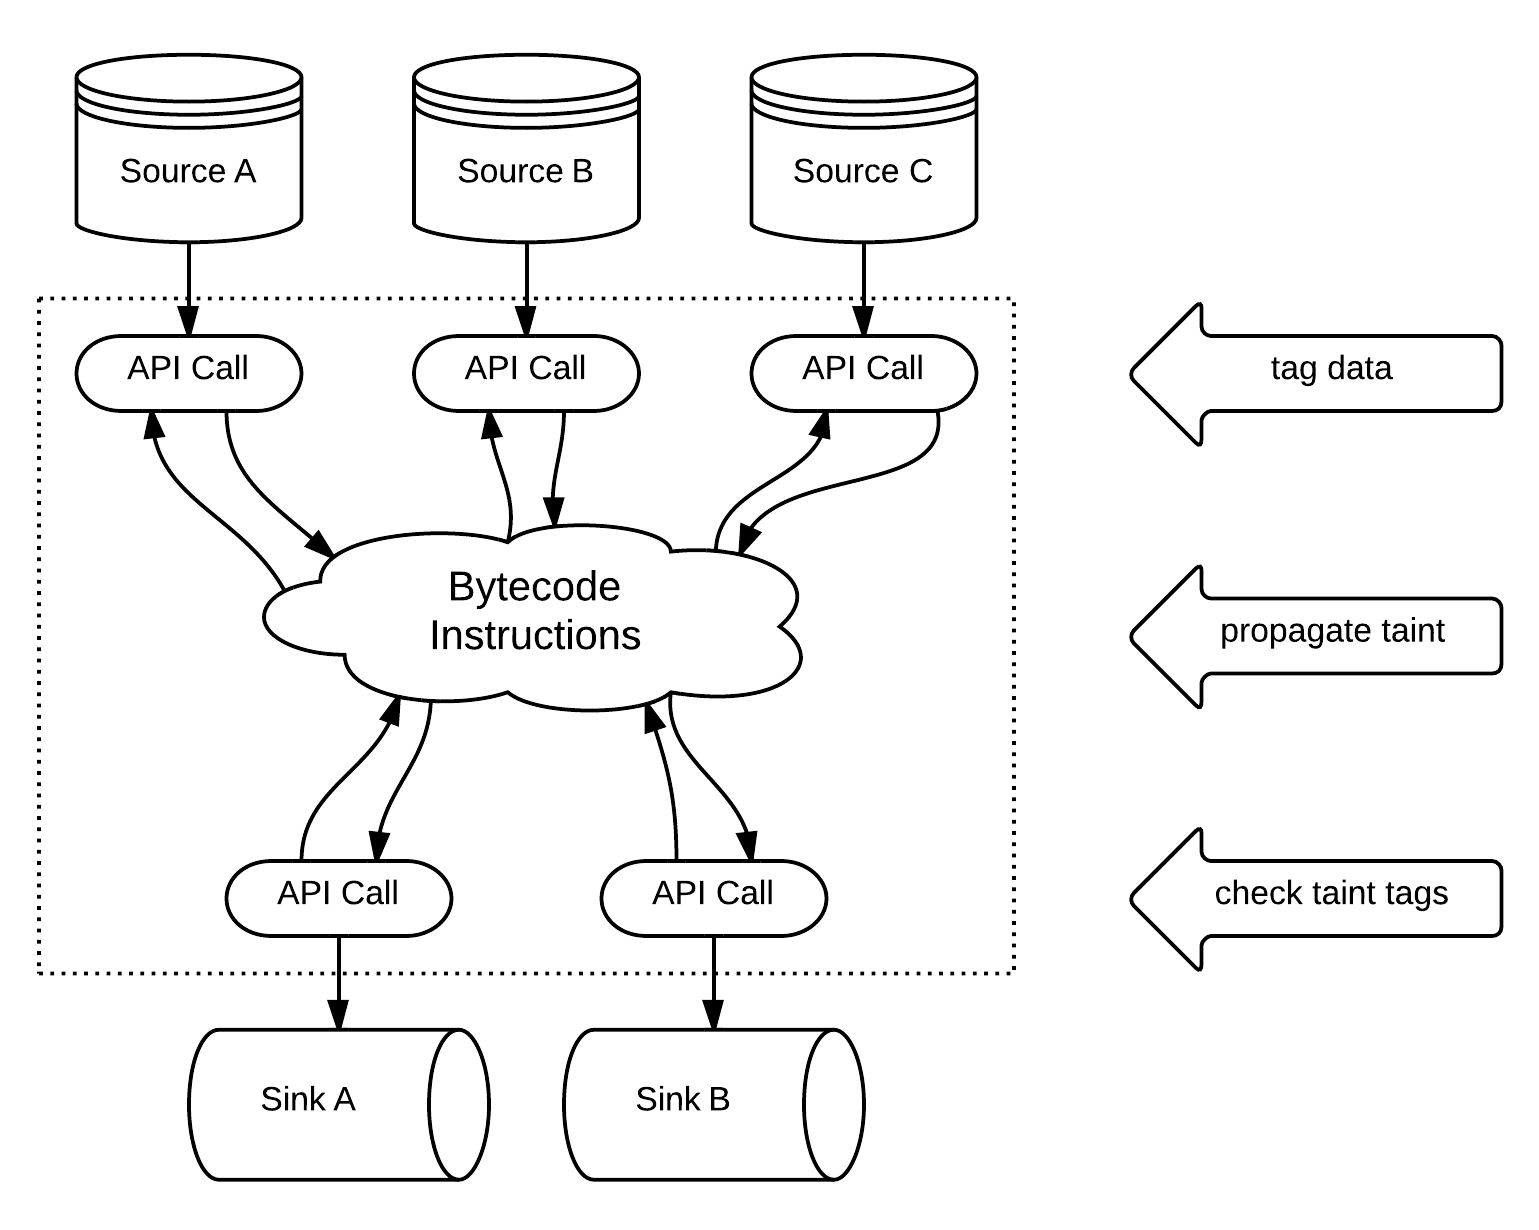
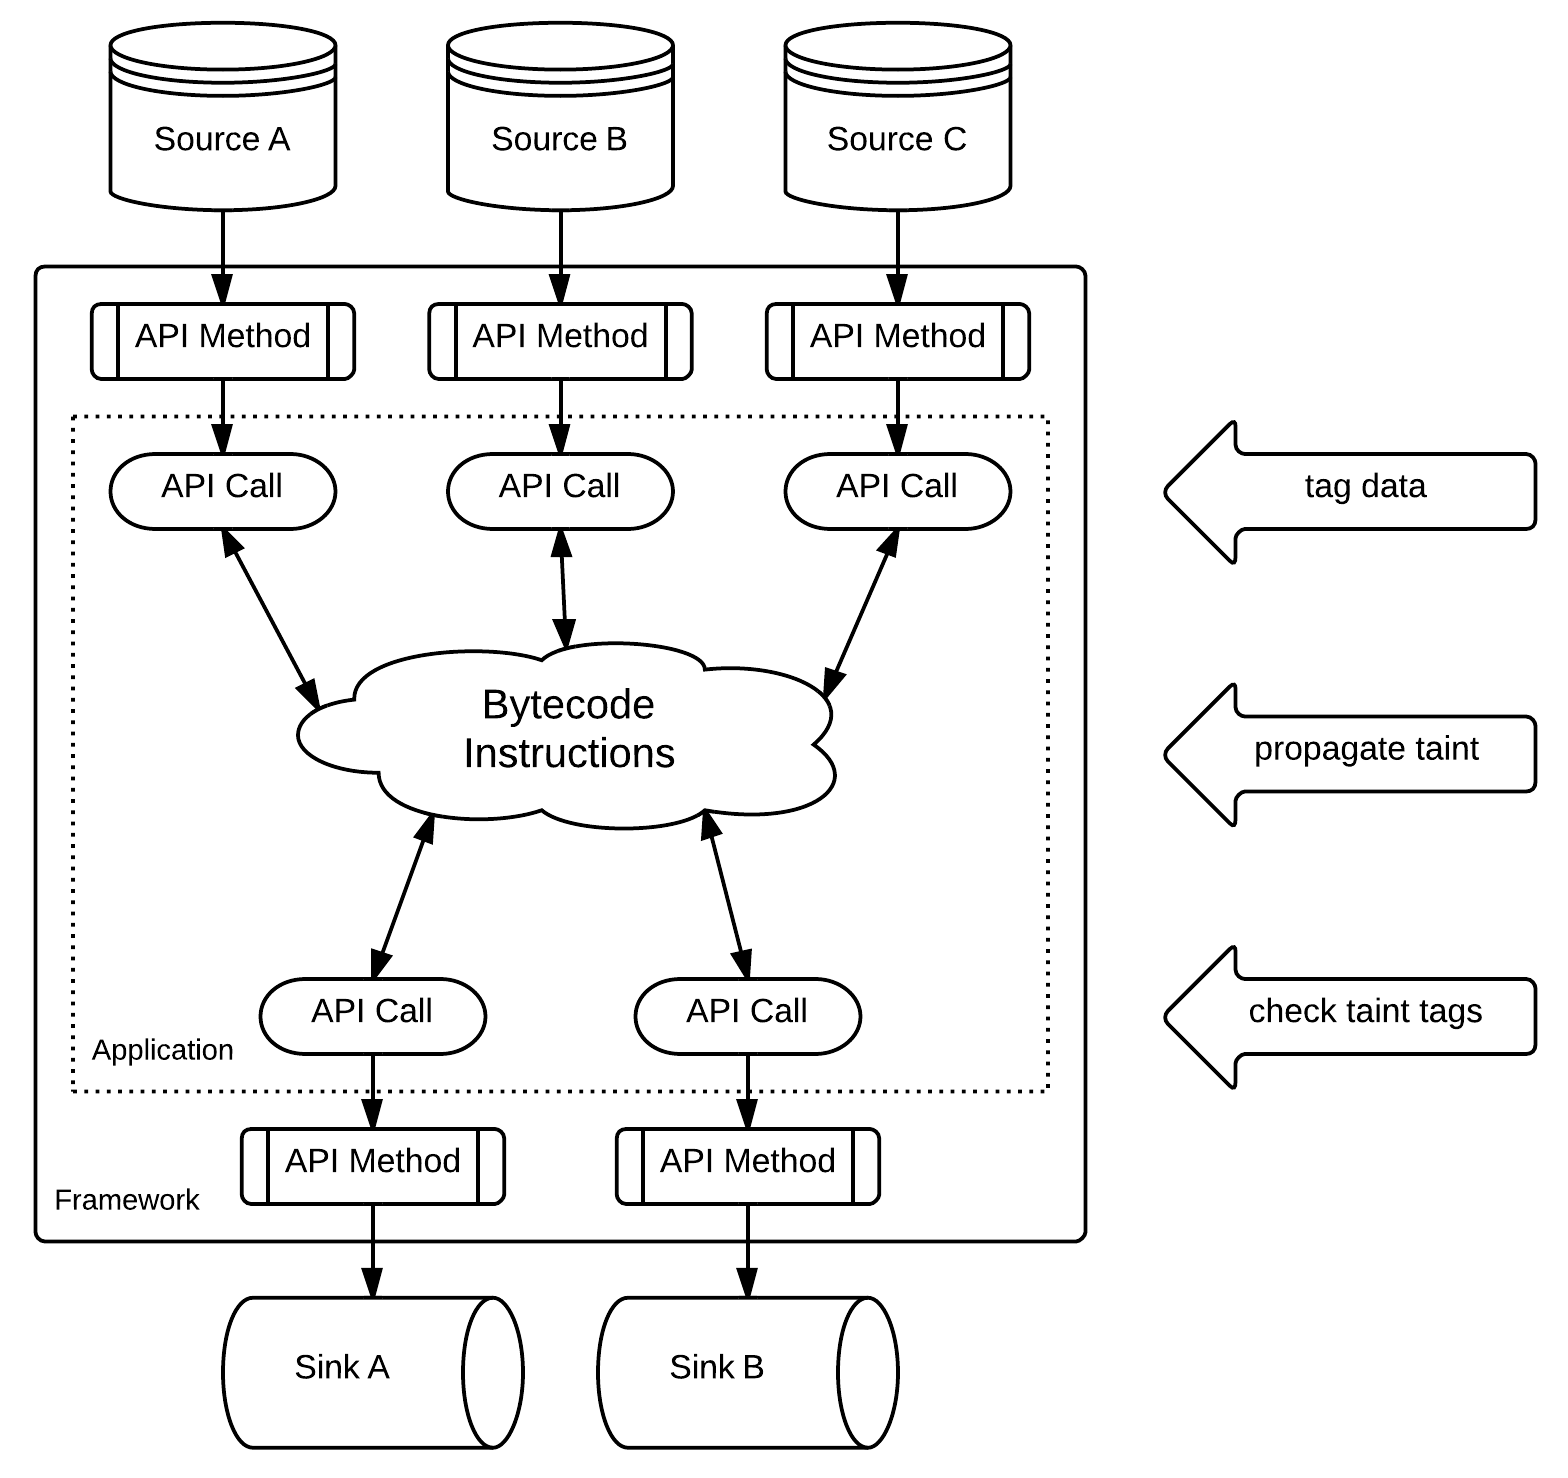
Rephrased

Changed region(s): [[0.0, 0.0, 0.9981, 0.9886], [0.7485, 0.6488, 0.9981, 0.7724], [0.7485, 0.4634, 0.9981, 0.5561]]

diff --git a/diss.tex b/diss.tex
@@ -240,15 +240,15 @@ Taint-based dynamic data flow analysis is a popular technique of providing deepe
 	\centerline{	
 		\includegraphics[width=0.8\textwidth]{figs/fig_intro_tainting.png}
 	}
-	\caption{Overview of data flow tracked by assigning taint tags.}
+	\caption{Overview of the taint analysis.}
 	\label{fig:Introduction_TaintingOverview}
 \end{figure}
 
-Dynamic taint analysis relies on the ability to assign attributes, called \emph{taint tags}, to data in the memory, here representing the potential to contain private information. The execution of the program is altered such that tags are assigned to tracked data at the points of their origin, known as \emph{sources}, and inputs of \emph{sinks}, operations capable of sending data away, are monitored to make sure no tainted data leave the system. Between sources and sinks it is made sure that tags propagate correctly as data are moved and combined. In the context of Android, sources and sinks are resources like the contacts database and network sockets. Access to these resources needs to be monitored by the taint tracking system, and the semantics of VM instructions extended according to the rules of propagation logic.
+Dynamic taint analysis relies on the ability to assign attributes, called \emph{taint tags}, to data in the memory. These in our context represent the potential to contain private information. The execution of the program is altered so that tags are assigned to tracked data at the points of their origin known as \emph{sources}, and inputs of \emph{sinks}, operations capable of sending data away, are monitored to make sure no tainted data leave the system. Sources and sinks on Android are for example the contacts database and network sockets respectively. In between, tags are propagated as data are moved and combined, which is usually accomplished by extending the semantics of instructions.
 
-The approach adopted by TaintDroid monitors sources and sinks on kernel level and modifies the VM and the file-system to propagate taint. This allows it to track data flow throughout all of the interpreted code, even between applications. Dexter, limited by the boundaries of the VM, performs the analysis only within a single application by instrumenting its executable code. Resources are accessed through framework methods, and it cannot track taint outside the scope of methods defined by the application, so-called \emph{internal code}, not even through the framework. Stages of the analysis are summarized in Figure~\ref{fig:Introduction_TaintingOverview}. 
+The approach adopted by TaintDroid monitors sources and sinks on kernel level and modifications to the VM and the file-system propagate taint. This allows it to track data flow throughout all of interpreted code, even between applications. Limited by the boundaries of the VM, Dexter performs the analysis only within a single application by instrumenting its executable code. Resources are monitored at the points of respective API calls, and it cannot track taint outside the scope of methods defined by the application, so-called \emph{internal code}, not even through the framework. Stages of the analysis are summarized in Figure~\ref{fig:Introduction_TaintingOverview}. 
 
-Tainting systems generally share some limitations. Most notably they struggle to avoid \emph{taint explosion}, i.e.\ uncontrollable spread of taint due to too conservative propagation logic, and nearly all of them entirely ignore \emph{implicit data flows}, which propagate data through control flow. For instance, \verb$while (x--) y++;$ moves the value of \verb$x$ into \verb$y$ unnoticed. Attempts have been made to identify such constructs through static analysis\cite{Nair:2008:VMB:1346355.1346524}, but these are prone to taint explosion. Further details about tainting can be found in \cite{Schwartz:2010:YEW:1849417.1849981, Ermolinskiy:EECS-2010-92}.
+Of course tainting brings complications as well. Most notably, it often struggles to avoid \emph{taint explosion}, an uncontrollable spread of taint due to too conservative propagation logic resulting in false positives. Nearly all such systems also entirely ignore \emph{implicit data flows}, i.e.\ propagation of data through control flow, just like the loop \verb$while (x--) y++;$. Attempts have been made to identify such constructs through static analysis\cite{Nair:2008:VMB:1346355.1346524}, but these are even more prone to taint explosion. Further details about tainting can be found in \cite{Schwartz:2010:YEW:1849417.1849981, Ermolinskiy:EECS-2010-92}.
 
 \subsection{Usage of Dexter}
 
